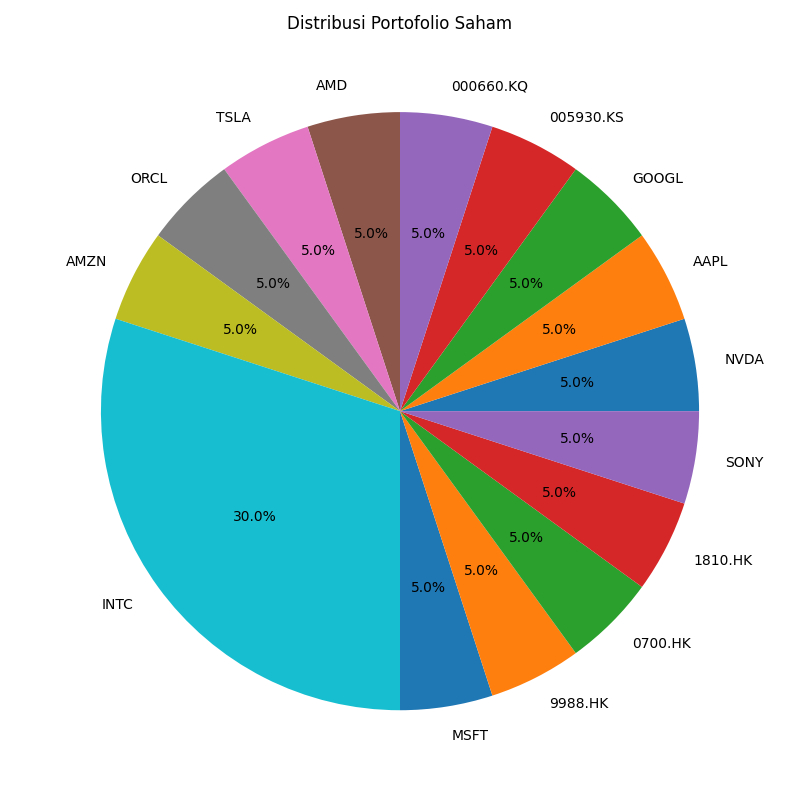
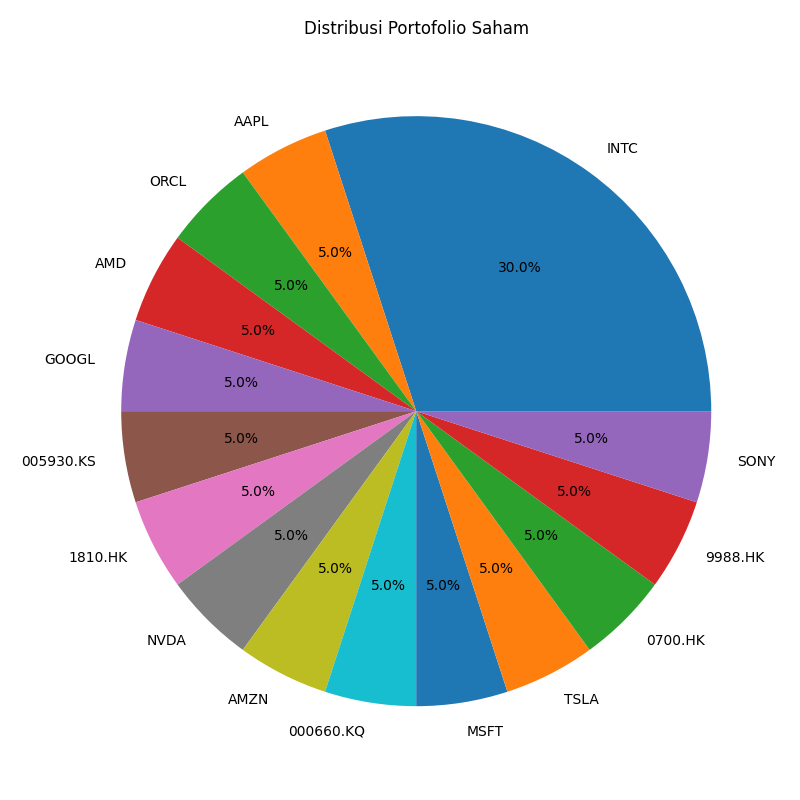
update

diff --git a/app.py b/app.py
@@ -83,7 +83,8 @@ def prediction():
                 'chart_ticker': selected_ticker if chart_path else None,
             }
             return render_template('prediction.html', **context)
-
+        
+        results = sorted(results, key=lambda x: x['expected_return'], reverse=True)
         dana = dana_input
         results = []
         gagal = []
@@ -204,6 +205,7 @@ def reallocation():
         return render_template('prediction.html', error_message="Semua saham dikecualikan.")
 
     # Simpan hasil terbaru
+    results = sorted(results, key=lambda x: x['expected_return'], reverse=True)
     session['last_results'] = results
     session['last_dana'] = dana
 
@@ -636,8 +638,12 @@ def optimize_portfolio(results, dana):
     model.setParam('OutputFlag', 0)
 
     # === Batasan Alokasi Diversifikasi ===
-    min_weight = 0.05  # 5% minimum
-    max_weight = 0.4   # 40% maksimum
+    if len(df) >= 3:
+        min_weight = 0.05
+        max_weight = 0.4
+    else:
+        min_weight = 0.01
+        max_weight = 1.0
 
     weights = {
         row['ticker']: model.addVar(lb=min_weight, ub=max_weight, vtype=GRB.CONTINUOUS)
@@ -656,10 +662,6 @@ def optimize_portfolio(results, dana):
             for t in df['ticker']
         ]
 
-    df['allocation_percent'] = [
-        weights[t].X if t in weights and hasattr(weights[t], 'X') else 0
-        for t in df['ticker']
-    ]
     df['allocation_nominal'] = df['allocation_percent'] * dana
     df['expected_profit'] = df['allocation_nominal'] * df['expected_return']
     return df
